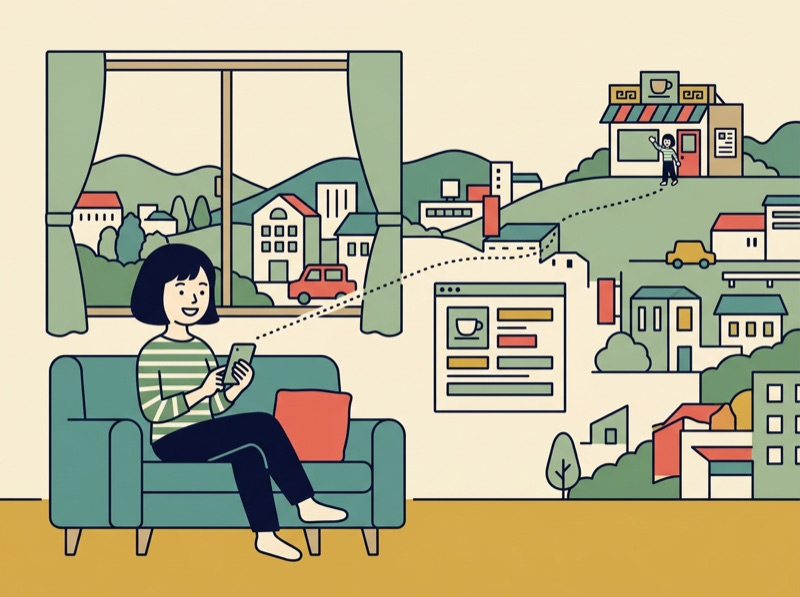
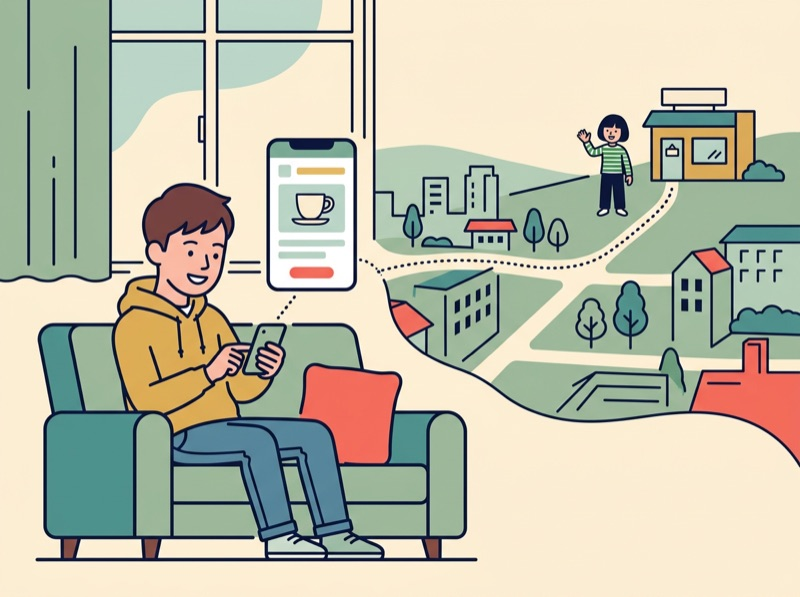
ITパスポート第6回: 挿絵1枚目のお客さんの服装をAさんと区別できるよう描き直し (#400)

diff --git a/it-passport-technology/week06.html b/it-passport-technology/week06.html
@@ -145,7 +145,7 @@
             <p><strong>今日のストーリー：お客さんがカフェのホームページを開く（約10分）</strong></p>
             <p>駅前のカフェを開いたAさん（架空の話）は、お店のホームページと、いろいろな道具を使い始めた。インターネットの中で何が起きているか、順番に読む。</p>
             <ol class="vz-steps">
-              <li class="vz-step"><img class="vz-step-img" src="images/week06-story-1.jpg" alt="家のソファに座った人が、スマートフォンでカフェのホームページを見ている。スマートフォンから点線が窓の外へ伸び、町をこえて、丘の上のカフェの前で手を振るAさんまで届いている。" width="800" height="597" loading="lazy"><b>1. 家からお店のホームページを開く</b>お客さんが、自分のスマートフォンで、お店の名前を入力する。遠くのお店のホームページが、数秒で開く。<strong>どうして届くのか</strong>。</li>
+              <li class="vz-step"><img class="vz-step-img" src="images/week06-story-1.jpg" alt="家のソファに座ったお客さん（黄色いパーカーの人）が、スマートフォンでカフェのホームページを見ている。画面から点線が伸び、町をこえて、丘の上のカフェの前で手を振るAさんまで届いている。" width="800" height="597" loading="lazy"><b>1. 家からお店のホームページを開く</b>お客さんが、自分のスマートフォンで、お店の名前を入力する。遠くのお店のホームページが、数秒で開く。<strong>どうして届くのか</strong>。</li>
               <li class="vz-step"><img class="vz-step-img" src="images/week06-story-2.jpg" alt="家とカフェの間の道を、トラックが運ぶ。道には、小さな箱がいくつも並んでいる。カフェでAさんが、届いた小さな箱を組み合わせて、1つのケーキの絵にしている。" width="800" height="597" loading="lazy"><b>2. データは、小さく分けて運ばれる</b>大きなデータは、小さな単位に分けて送られ、届いた先で組み立て直される。</li>
               <li class="vz-step"><img class="vz-step-img" src="images/week06-story-3.jpg" alt="カフェの店内で、Aさんがタブレットで右上がりのグラフを見ている。隣では、電球のマークを頭の上に出した小さなロボットが、売上の紙を読んでいる。窓の外にはお客さんの列が見える。" width="800" height="597" loading="lazy"><b>3. 売上のデータから、明日を予測したい</b>過去の売上のデータを学習して、明日のお客さんの数を予測する道具がある。これが<strong><span translate="no">AI</span></strong>。</li>
               <li class="vz-step"><img class="vz-step-img" src="images/week06-story-4.jpg" alt="店の奥で、コーヒーマシン、豆の入れ物、冷蔵庫に、小さなセンサーが付いている。センサーから電波のマークが出て、雲のマークとAさんのスマートフォンにつながっている。" width="800" height="597" loading="lazy"><b>4. 店の機械が、インターネットにつながる</b>コーヒーマシンや冷蔵庫の状態を、スマートフォンで見たい。モノがインターネットにつながる。これが<strong><span translate="no">IoT</span></strong>。</li>
